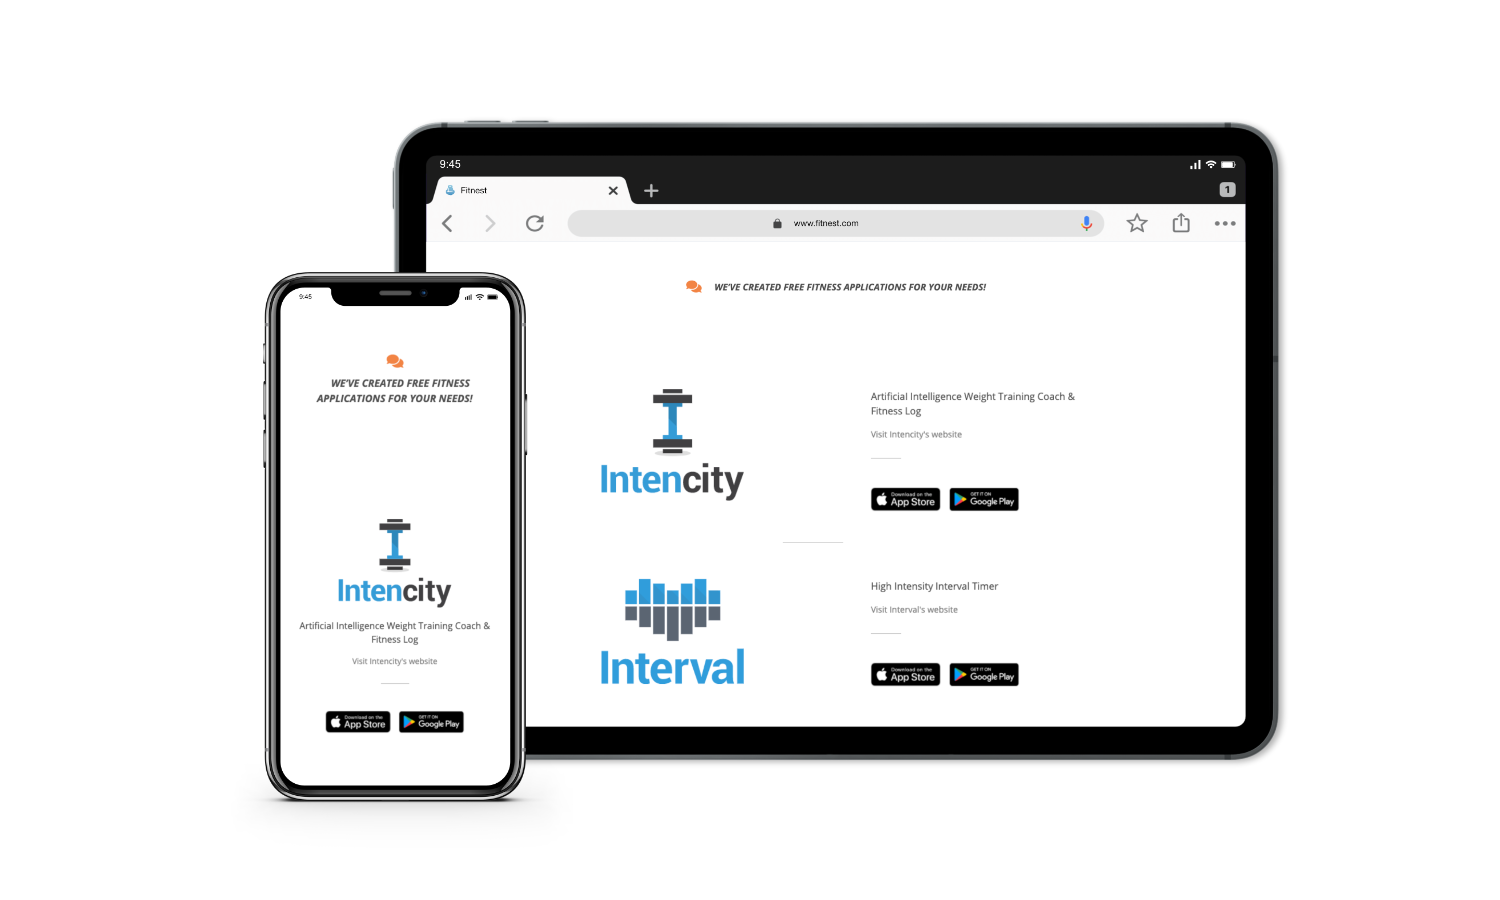
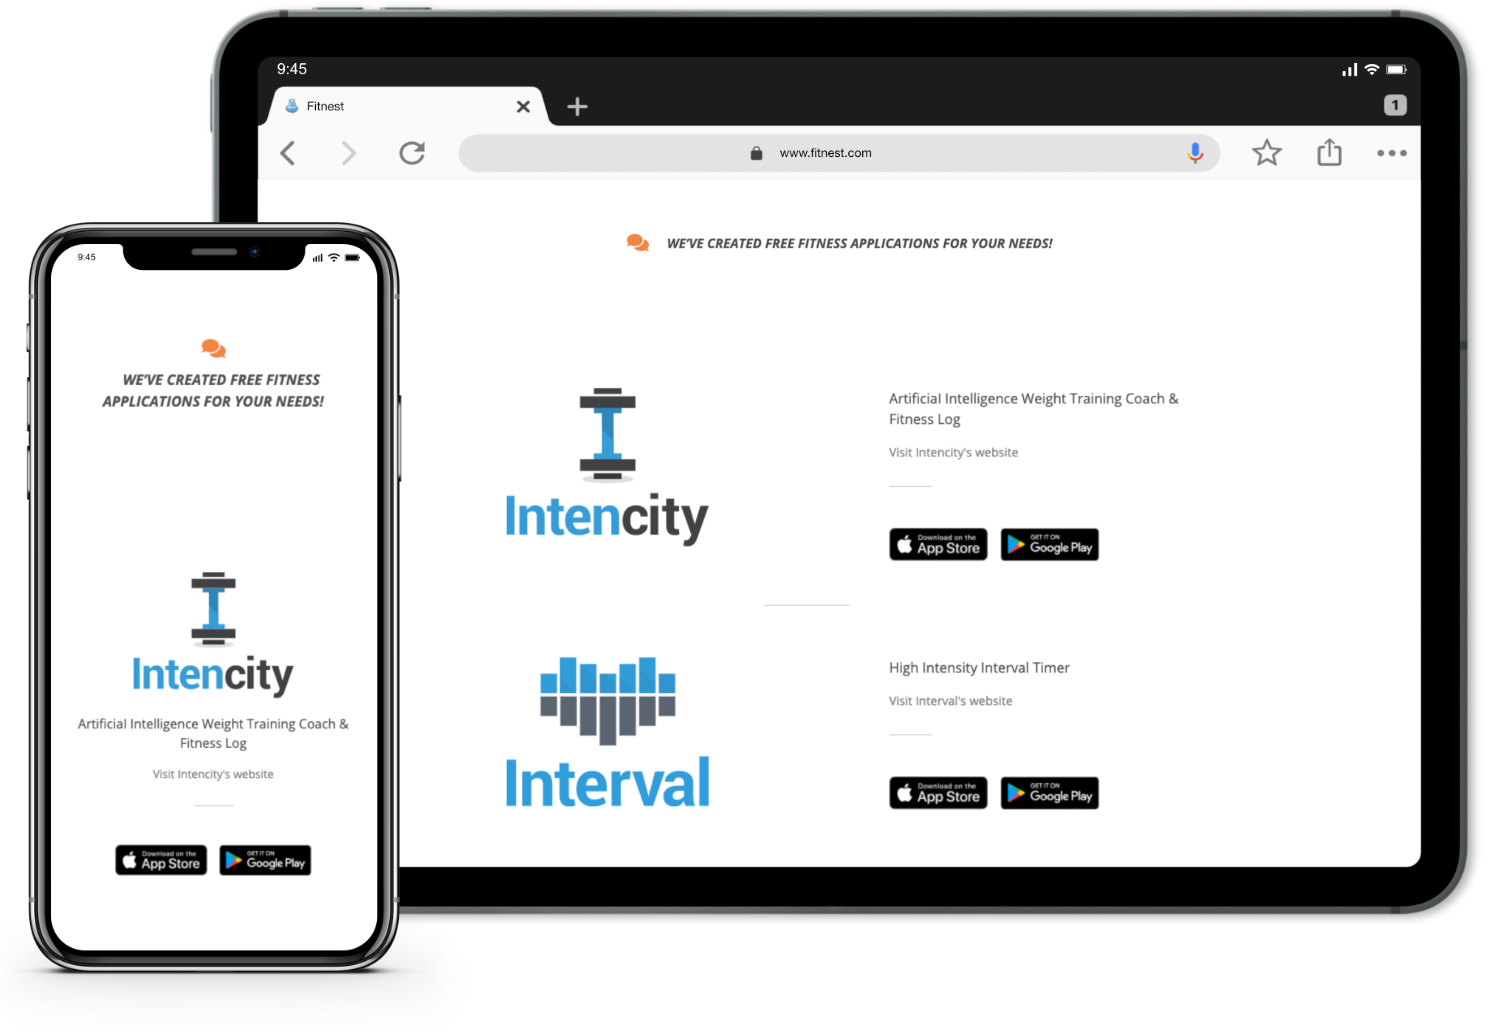
Updated 2 imgs, updated css for zoom img's width.

diff --git a/css/main.css b/css/main.css
@@ -496,7 +496,7 @@ a.portfolio-column {
 }
 
 .img-show img {
-  width: 90%;
+  width: 80%;
   height: auto;
   top: 50%;
   left: 50%;
@@ -994,7 +994,7 @@ a.portfolio-column {
 }
 
 #fitnest-zoom-image2 {
-  right: 90px;
+  right: -10px;
   bottom: 40px;
 }
 
@@ -1188,13 +1188,12 @@ a.portfolio-column {
   }
 
   #fitnest-zoom-image {
-    right: -10px;
-    bottom: 95px;
+    bottom: 75px;
   }
 
   #fitnest-zoom-image2 {
-    right: 70px;
-    bottom: 30px;
+    right: -20px;
+    bottom: 20px;
   }
 }
 
@@ -1213,13 +1212,12 @@ a.portfolio-column {
   }
 
   #fitnest-zoom-image {
-    right: -15px;
+    right: -20px;
     bottom: 70px;
   }
 
   #fitnest-zoom-image2 {
-    right: 55px;
-    bottom: 25px;
+    right: -10px;
   }
 }
 
@@ -1318,7 +1316,7 @@ a.portfolio-column {
   }
 
   #fitnest-zoom-image2 {
-    right: 65px;
+    right: 0px;
     bottom: 30px;
   }
 }
@@ -1385,7 +1383,8 @@ a.portfolio-column {
   }
 
   #fitnest-zoom-image2 {
-    right: 50px;
+    right: 0px;
+    bottom: 15px;
   }
 
   #tech-graph {
@@ -1414,12 +1413,11 @@ a.portfolio-column {
   }
 
   #fitnest-zoom-image {
-    right: 0px;
-    bottom: 50px;
+    right: -6px;
+    bottom: 49px;
   }
 
   #fitnest-zoom-image2 {
-    right: 35px;
-    bottom: 25px;
+    bottom: 20px;
   }
 }
